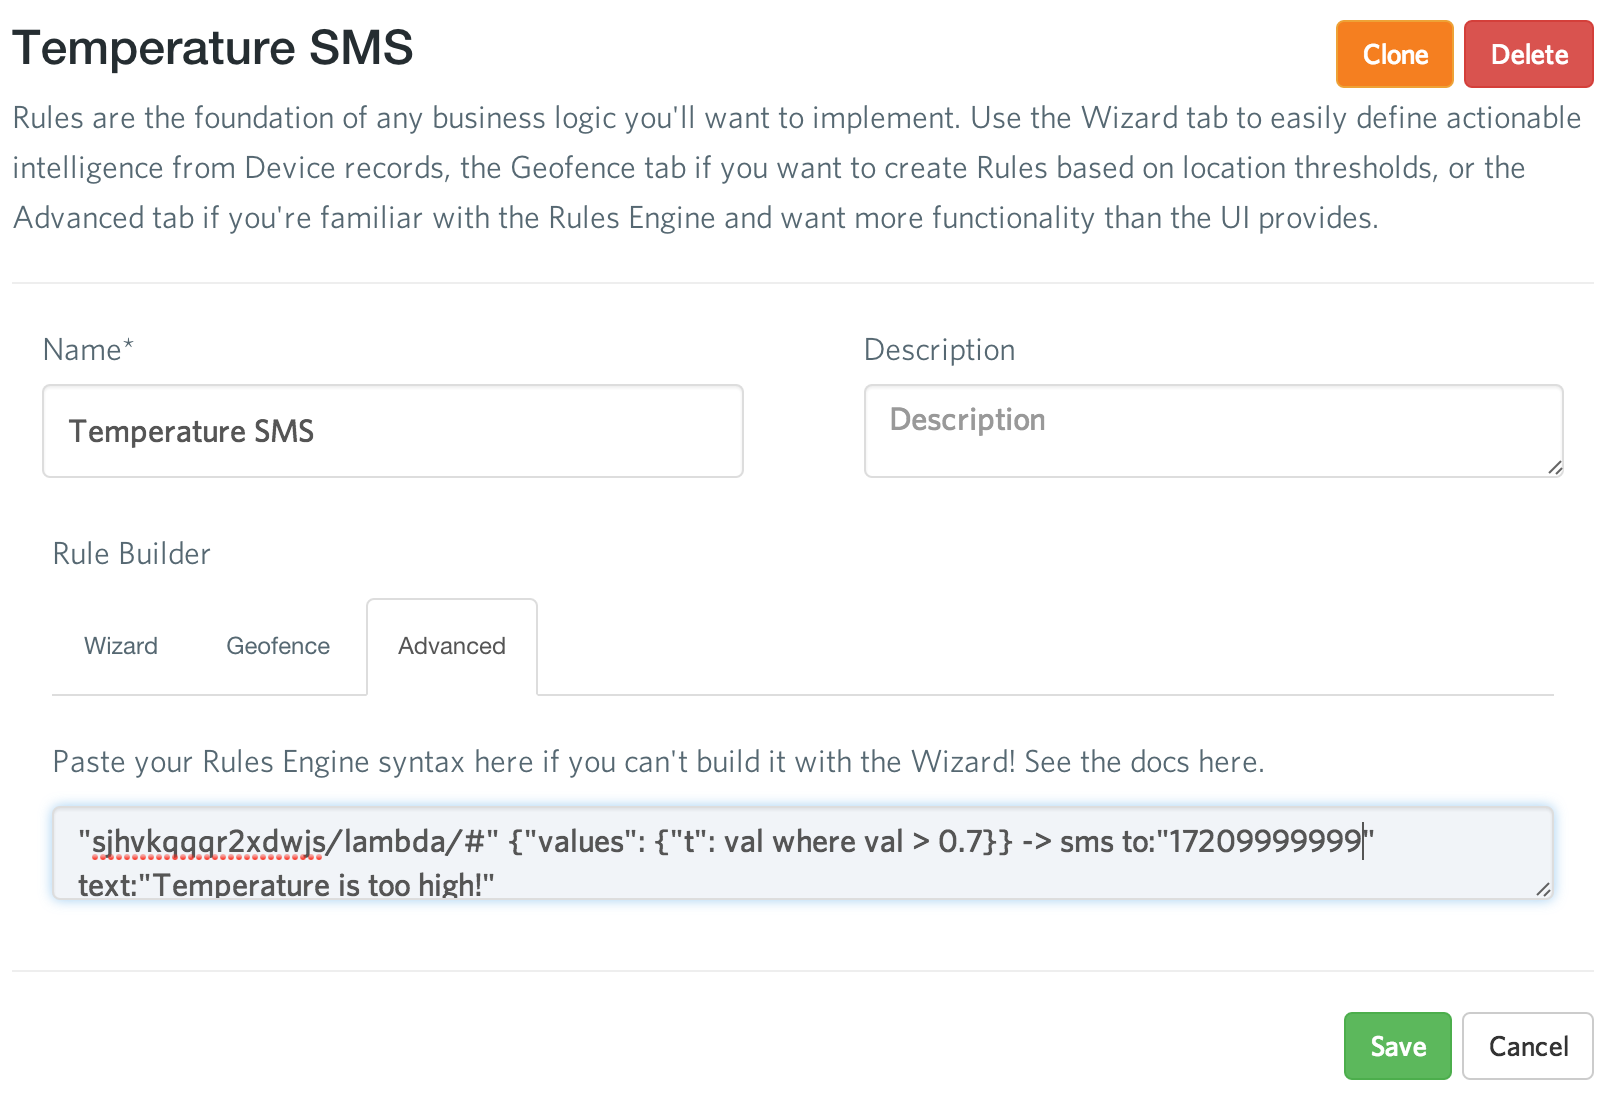
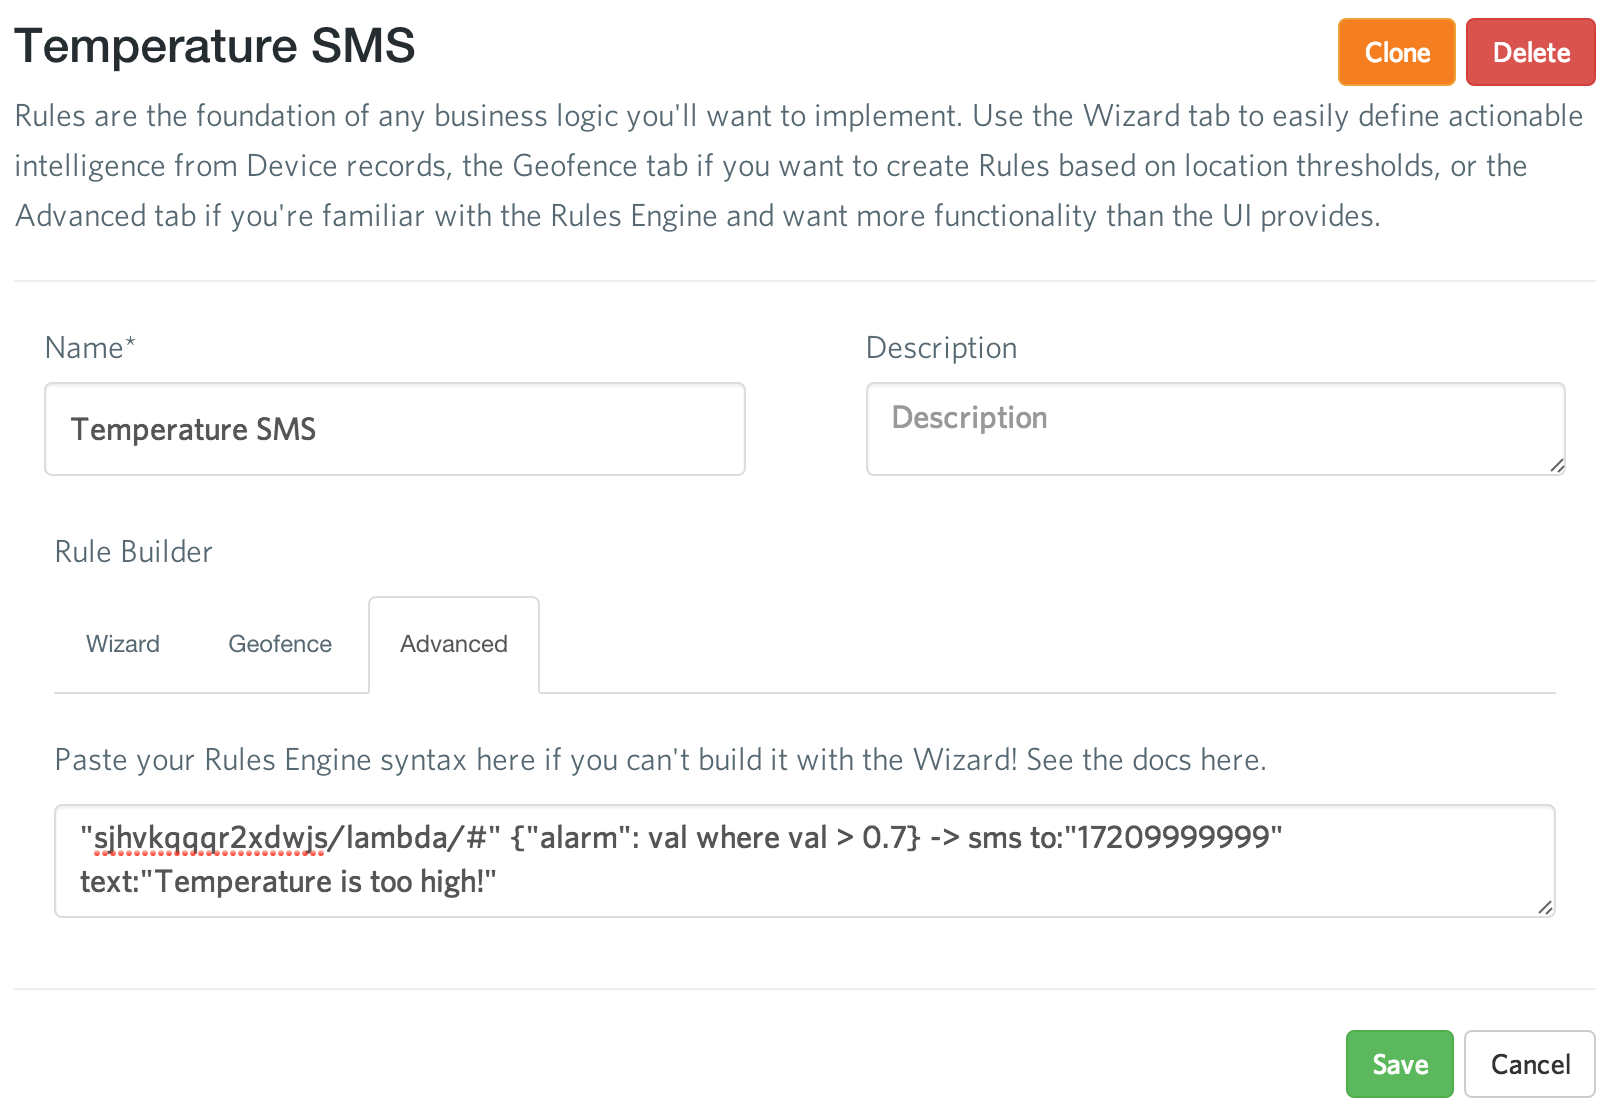
Fixing the rule and the rule screenshot

diff --git a/README.md b/README.md
@@ -226,7 +226,7 @@ Once `handler` is triggered, we read an S3 object and then make an MQTT publish 
 Now let's setup some rules in ThingFabric. After you registered, go to your first project and then select "Rules" on the left. In the wizard select "Send SMS" and type your phone number starting with a `1`, a message, and then click "Save". Then go to the Advanced tab and change your rule to:
 
 ```
-"<YOUR DOMAIN>/lambda/#" {"values": {"t": val where val > 0.7}} -> sms to:"17209999999" text:"Temperature is too high!"
+""<YOUR DOMAIN>/lambda/#" {"alarm": val where val > 0.7} -> sms to:"17209999999" text:"Temperature is too high!""
 ```
 
 Here is what it should look like:
